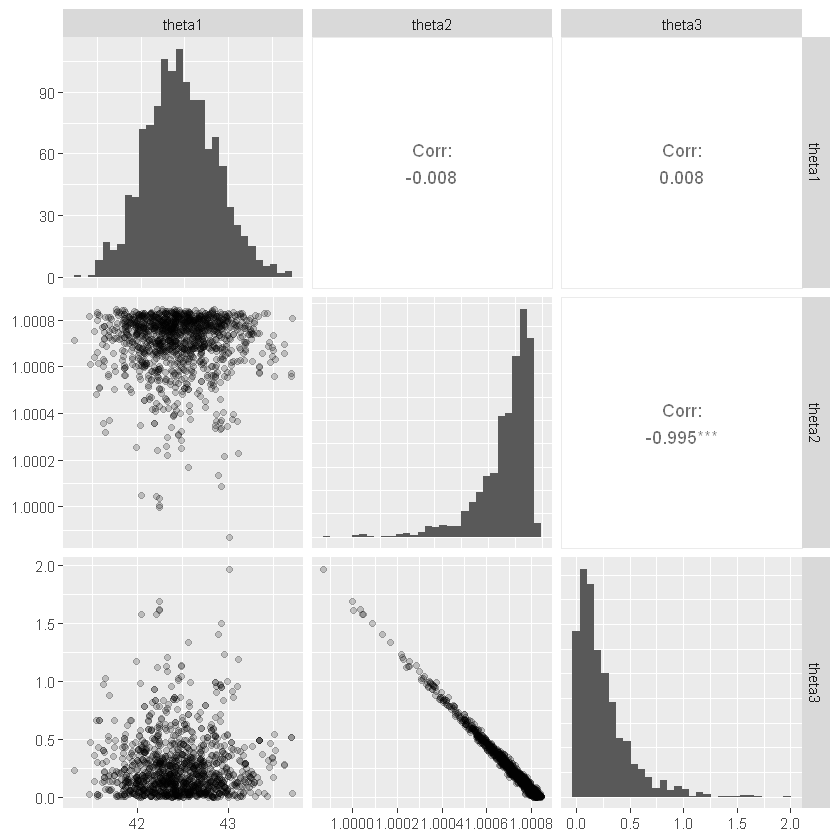
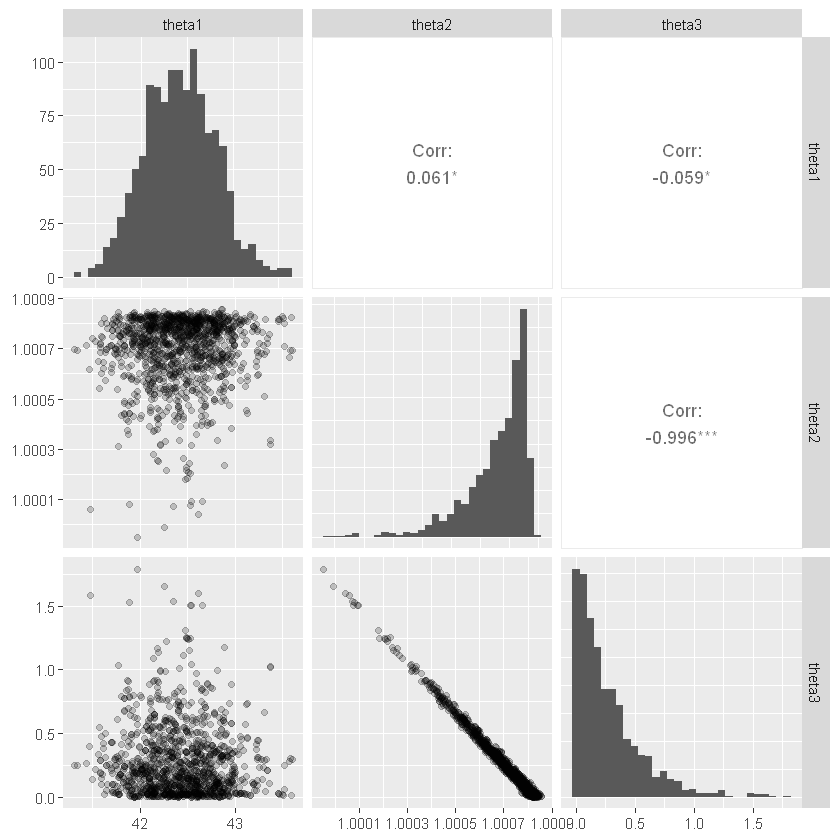
update ex07

diff --git a/Exercise 07/main.tex b/Exercise 07/main.tex
@@ -39,6 +39,7 @@ First, the Stan model is defined as:
 \begin{lstlisting}[language=R]
 data {
   int<lower=0> N;
+  vector<lower=0>[N] t;
   vector<lower=0>[N] y;
 
 }
@@ -54,7 +55,7 @@ model {
   theta_3 ~ uniform(0, 2*pi());
 
   // likelihood
-  y ~ poisson(theta_1 * sin(theta_2*linspaced_vector(N,1,N) + theta_3) + 1.1);
+  y ~ poisson(theta1 * (sin(theta2*t + theta3) + 1.1));;
 }
 \end{lstlisting}
 
@@ -76,7 +77,7 @@ then we run Stan for $2500$ iterations:
   init_fun <- function() {
     list(theta1 = 40, theta2 = 1.0, theta3 = 0.25)
   }
-  fit = stan(seed=2025, file="./sunspots.stan", data=list(N=length(counts),y=counts), chains=1, iter=2500, init = init_fun)
+  fit = sampling(stan_model("sunspots.stan"), data=list(N=length(counts), y=counts, t=time), chains=1, iter=2500, init = init_fun, control = list(max_treedepth = 15))
 
 
   samples = extract(fit)
